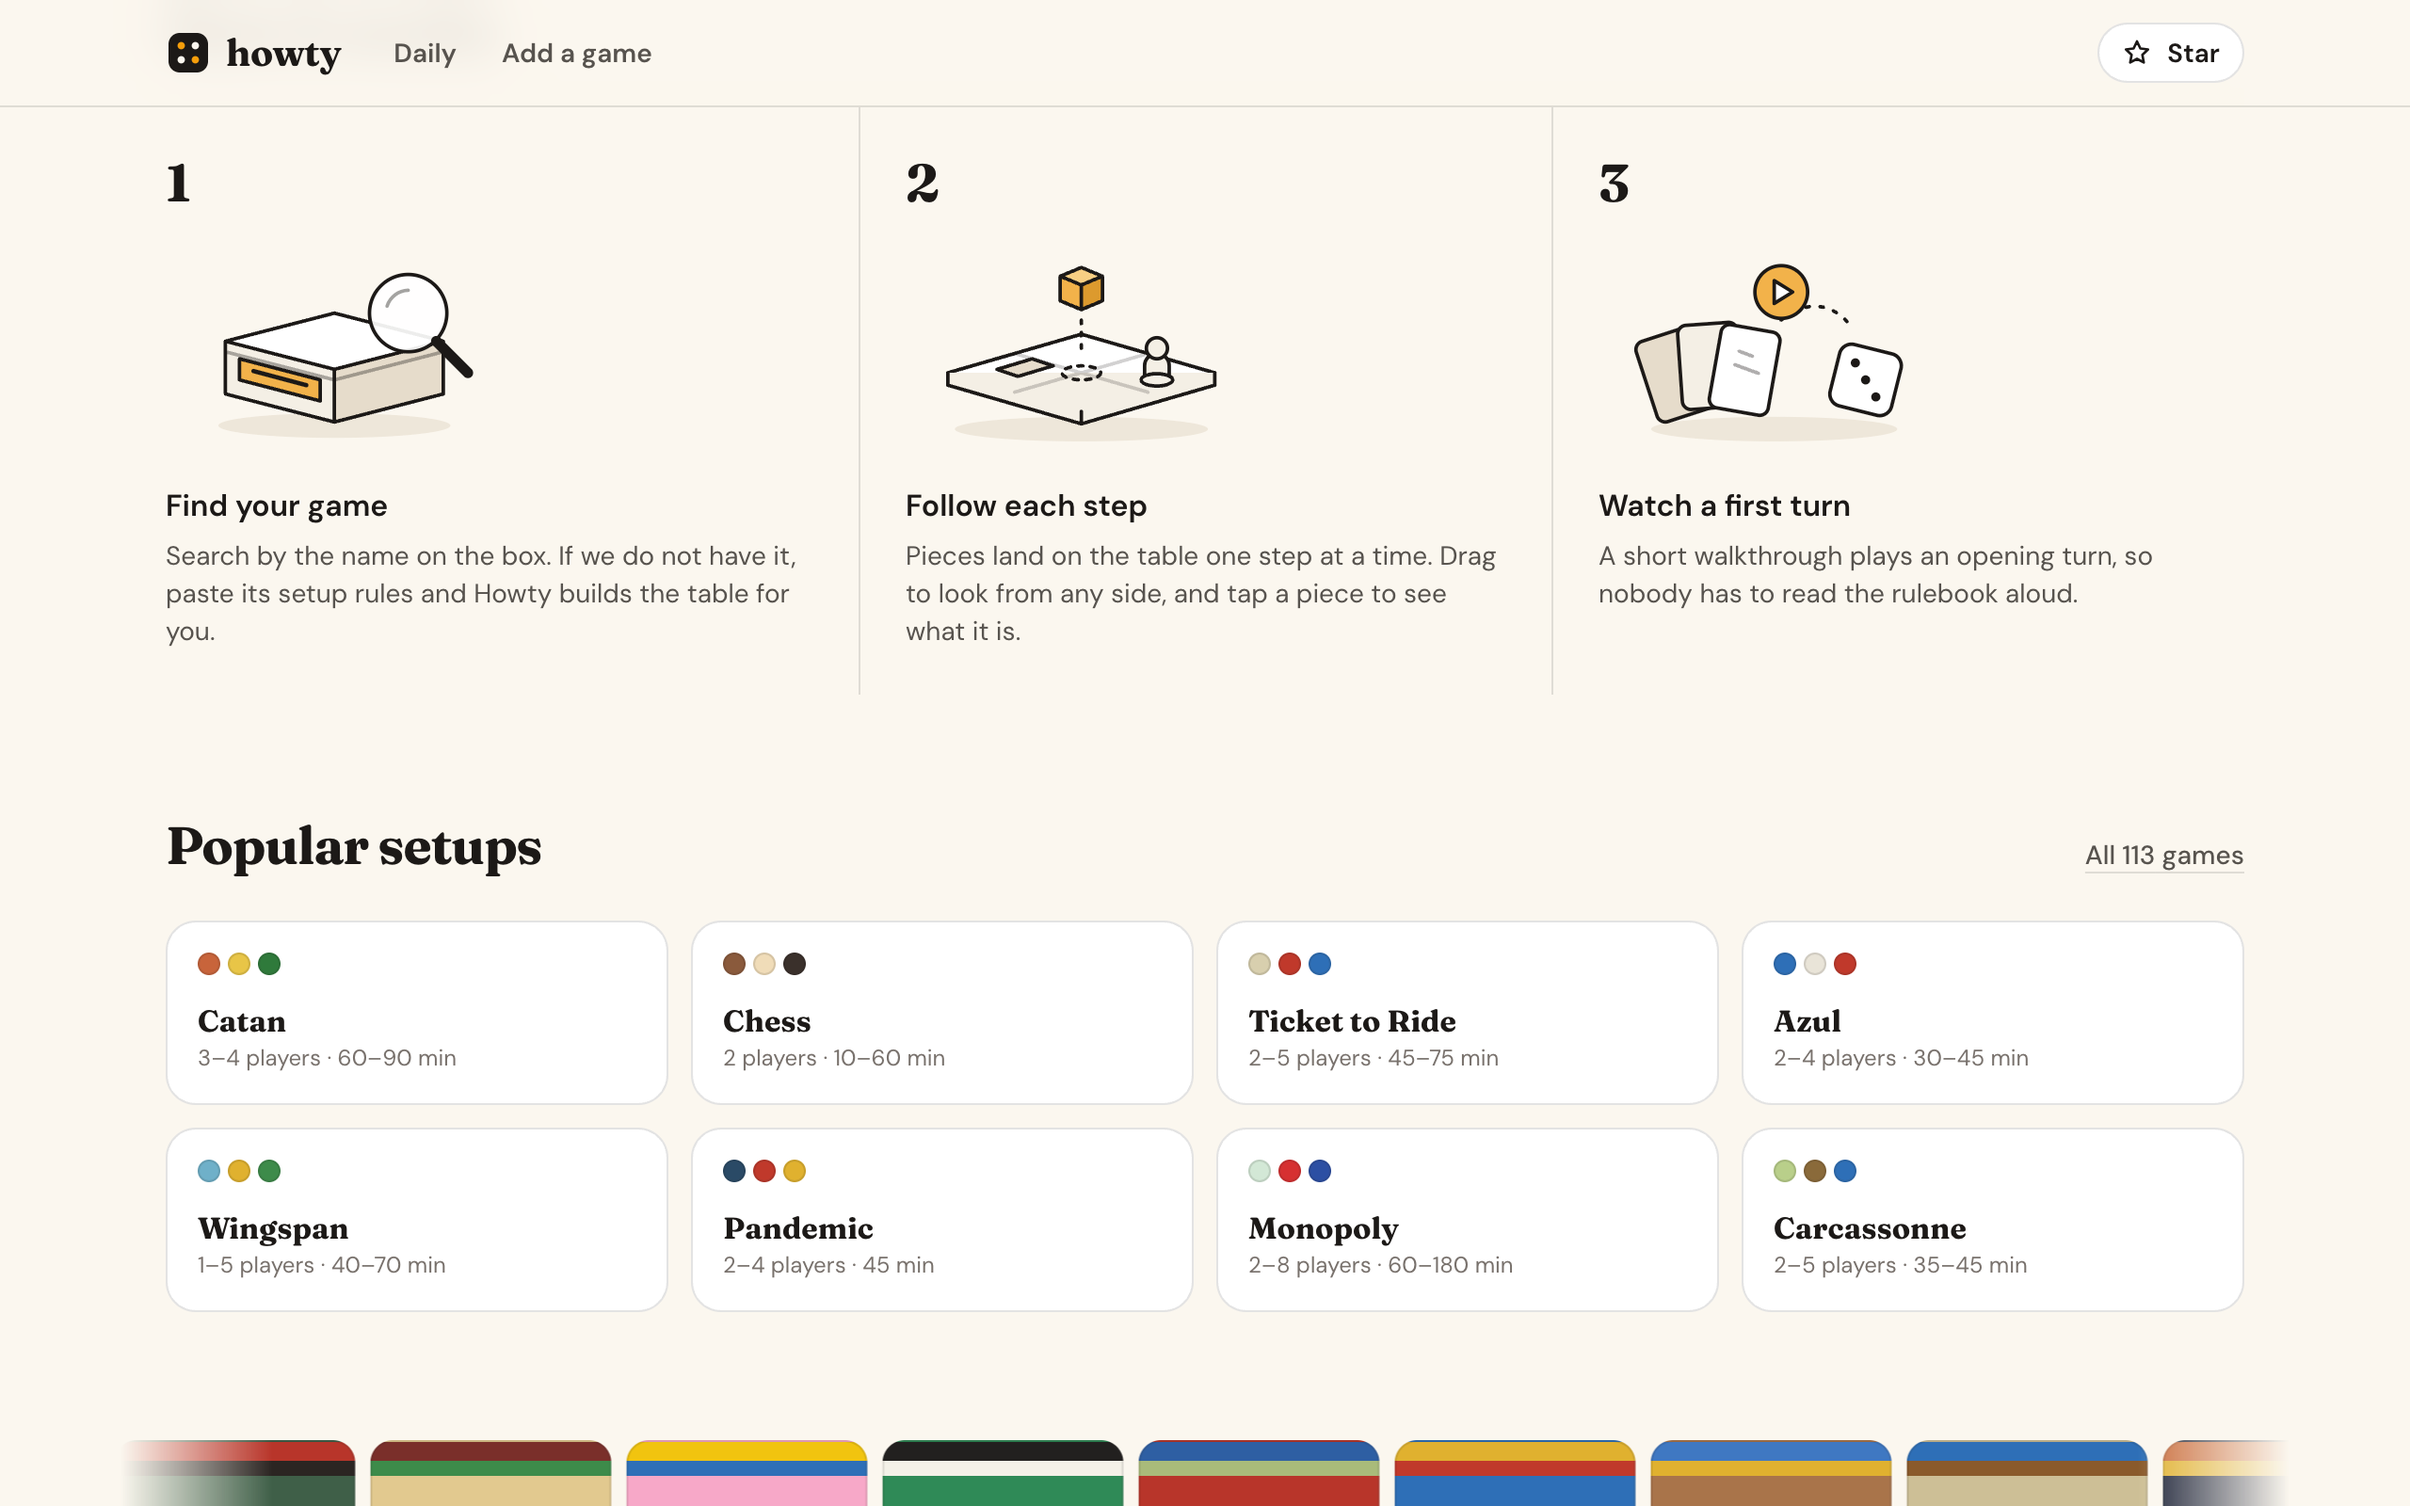
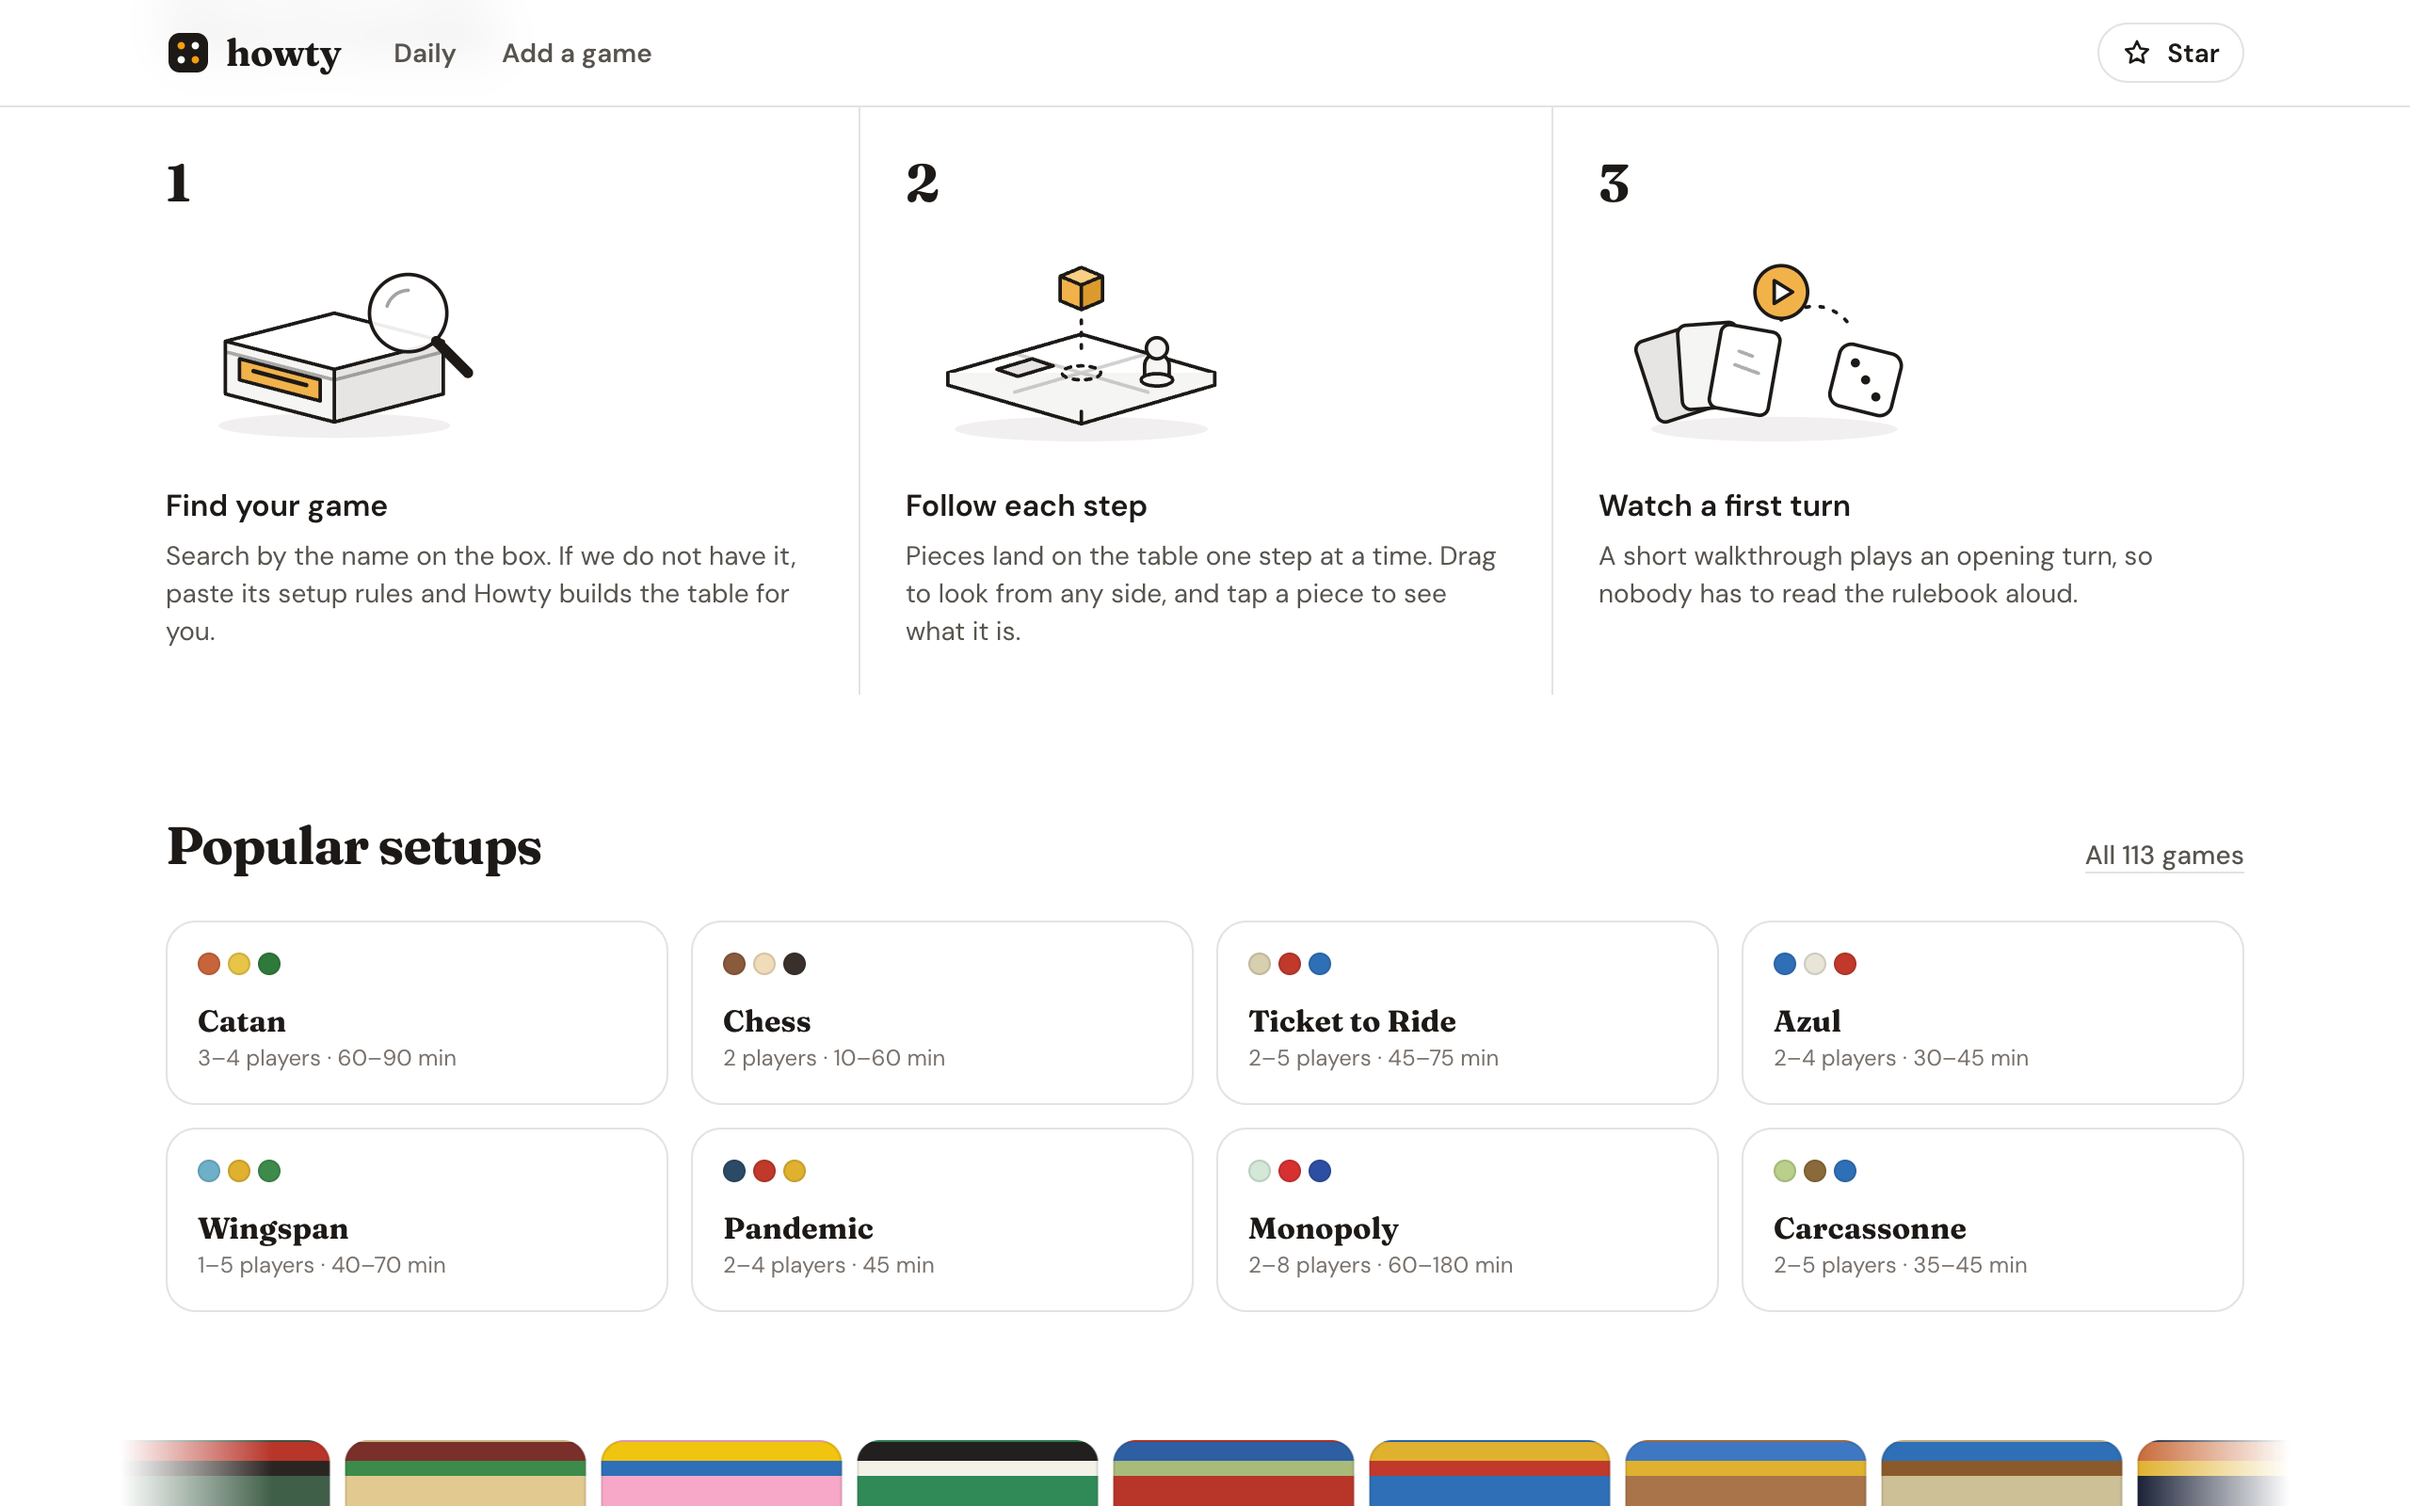
Replace the cream background with pure white

diff --git a/tailwind.config.js b/tailwind.config.js
@@ -7,7 +7,8 @@ export default {
       fontFamily: { display: ['Fraunces', 'Georgia', 'serif'], sans: ['"DM Sans"', 'system-ui', 'sans-serif'] },
       colors: {
         ink: '#1c1917', // text and primary buttons
-        paper: '#fbf7ef', // page background (a warm neutral, tinted toward the accent)
+        paper: '#ffffff', // page background: pure white
+        mist: '#f5f5f4', // the quiet gray behind a 3D table panel
         line: 'rgba(28, 25, 23, 0.12)', // every border
         accent: '#d97706', // used sparingly: progress, focus, the first-turn button
       },
@@ -21,8 +22,8 @@ export default {
         hero: ['clamp(38px, 5.2vw, 56px)', { lineHeight: '1.04', letterSpacing: '-0.03em' }],
       },
       boxShadow: {
-        soft: '0 1px 2px rgba(60, 40, 10, 0.06), 0 8px 24px -10px rgba(60, 40, 10, 0.14)',
-        lift: '0 2px 4px rgba(60, 40, 10, 0.06), 0 16px 40px -12px rgba(60, 40, 10, 0.22)',
+        soft: '0 1px 2px rgba(28, 25, 23, 0.05), 0 8px 24px -10px rgba(28, 25, 23, 0.12)',
+        lift: '0 2px 4px rgba(28, 25, 23, 0.05), 0 16px 40px -12px rgba(28, 25, 23, 0.18)',
       },
     },
   },

diff --git a/src/engine/Engine.tsx b/src/engine/Engine.tsx
@@ -313,7 +313,7 @@ function Table({ table }: { table: TableDef }) {
   )
 }
 
-export function Scene({ game, gameKey, nav, nonce, idle, quiet, backdrop = '#d9cfc0' }: { game: GameSetup; gameKey: string; nav: Nav; nonce: number; idle: boolean; /** background color behind the table */ backdrop?: string; /** hide the hover cards (the daily table must not name its pieces) */ quiet?: boolean }) {
+export function Scene({ game, gameKey, nav, nonce, idle, quiet, backdrop = '#e7e5e4' }: { game: GameSetup; gameKey: string; nav: Nav; nonce: number; idle: boolean; /** background color behind the table */ backdrop?: string; /** hide the hover cards (the daily table must not name its pieces) */ quiet?: boolean }) {
   const step = Math.min(nav.step, game.steps.length - 1)
   return (
     <NavContext.Provider value={nav}>

diff --git a/src/App.tsx b/src/App.tsx
@@ -339,7 +339,7 @@ export default function App() {
     <div className="relative h-full w-full select-none bg-paper text-ink">
       {createPortal(
         <Canvas shadows camera={{ position: [2, 25, 20], fov: 40, near: 0.1, far: 400 }} dpr={[1, 2]} onPointerMissed={() => hoverStore.clear()}>
-          <Scene game={game} gameKey={gameId} nav={{ ...nav, step }} nonce={nonce} idle={!started} quiet={view === 'daily' && !guessed} backdrop={started ? '#d9cfc0' : '#f4efe5'} />
+          <Scene game={game} gameKey={gameId} nav={{ ...nav, step }} nonce={nonce} idle={!started} quiet={view === 'daily' && !guessed} backdrop={started ? '#e7e5e4' : '#f5f5f4'} />
         </Canvas>,
         host,
       )}

diff --git a/index.html b/index.html
@@ -5,7 +5,7 @@
     <meta name="viewport" content="width=device-width, initial-scale=1.0, viewport-fit=cover" />
     <title>Howty: set up any board game, step by step</title>
     <meta name="description" content="Free 3D setup guides for 113 board and card games. Every step plays on a 3D table, then you watch a real first turn. No account, open source." />
-    <meta name="theme-color" content="#fbf7ef" />
+    <meta name="theme-color" content="#ffffff" />
     <link rel="icon" href="/favicon.svg" type="image/svg+xml" />
     <meta property="og:type" content="website" />
     <meta property="og:site_name" content="Howty" />

diff --git a/src/ui/icons.tsx b/src/ui/icons.tsx
@@ -38,8 +38,8 @@ export function Logo({ size = 28 }: { size?: number }) {
       <rect x="2" y="2" width="28" height="28" rx="8" fill="#1c1917" />
       <circle cx="11" cy="11" r="2.6" fill="#f59e0b" />
       <circle cx="21" cy="21" r="2.6" fill="#f59e0b" />
-      <circle cx="21" cy="11" r="2.6" fill="#fbf7ef" />
-      <circle cx="11" cy="21" r="2.6" fill="#fbf7ef" />
+      <circle cx="21" cy="11" r="2.6" fill="#ffffff" />
+      <circle cx="11" cy="21" r="2.6" fill="#ffffff" />
     </svg>
   )
 }

diff --git a/src/ui/art.tsx b/src/ui/art.tsx
@@ -4,7 +4,7 @@
  */
 const INK = '#1c1917'
 const frame = { viewBox: '0 0 200 120', fill: 'none', stroke: INK, strokeWidth: 2, strokeLinejoin: 'round', strokeLinecap: 'round', 'aria-hidden': true } as const
-const [WHITE, PALE, SHADE, AMBER] = ['#ffffff', '#f4efe5', '#e6dccb', '#f2b24a']
+const [WHITE, PALE, SHADE, AMBER] = ['#ffffff', '#f5f5f4', '#e7e5e4', '#f2b24a']
 
 /** 1. Find your game: a game box under a magnifying glass. */
 export function ArtFind({ className }: { className?: string }) {

diff --git a/src/index.css b/src/index.css
@@ -2,7 +2,7 @@
 @tailwind components;
 @tailwind utilities;
 
-html, body, #root { height: 100%; margin: 0; overflow: hidden; background: #d9cfc0; }
+html, body, #root { height: 100%; margin: 0; overflow: hidden; background: #ffffff; }
 body { font-family: 'DM Sans', system-ui, sans-serif; -webkit-font-smoothing: antialiased; }
 canvas { touch-action: none; }
 textarea, input { -webkit-user-select: text; user-select: text; }

diff --git a/DESIGN.md b/DESIGN.md
@@ -63,7 +63,7 @@ Six sizes, and no arbitrary `text-[13px]`:
 
 ## 4. Color: neutrals, and one accent that means something
 
-- The page is warm neutrals: `paper` background, `ink` text, `stone-*` grays, `line` borders.
+- The page is pure white (`paper`, #FFFFFF) with neutral grays: `mist` behind a 3D table, `ink` text, `stone-*` grays, `line` borders.
 - `accent` (amber) appears only on: step progress, keyboard focus, the "Watch the first turn"
   button, the daily-table tile, and the tick on a correct answer. Never on headlines, backgrounds or plain links.
 - No gradients for decoration. The only strong color on a page belongs to the games themselves
@@ -87,7 +87,7 @@ Six sizes, and no arbitrary `text-[13px]`:
 - **Icons:** the inline set in `src/ui/icons.tsx`, 2px stroke, at 16 or 20 only. No emoji and no
   text glyphs standing in for icons.
 - **Illustrations:** the drawings in `src/ui/art.tsx`. They follow the icon rules at a larger size: 2px ink
-  strokes, warm neutral fills, a soft ground shadow, and amber on the one object the drawing is about.
+  strokes, white and light gray fills, a soft ground shadow, and amber on the one object the drawing is about.
   New artwork is drawn in that style, never pulled from a stock set.
 
 ## 7. Motion: from where you acted

diff --git a/README.md b/README.md
@@ -50,7 +50,7 @@ from a given step onward. The engine drops, slides, flips and hides pieces to ma
 
 ## The design
 
-Howty is laid out to do one thing per screen, in warm neutral colors with a single amber accent.
+Howty is laid out to do one thing per screen, on a pure white page with neutral grays and a single amber accent.
 
 **Home** is one wide column: the headline and search, a live 3D table you can swap between games,
 "How it works" in three columns with line drawings made for Howty, then the library, with every
